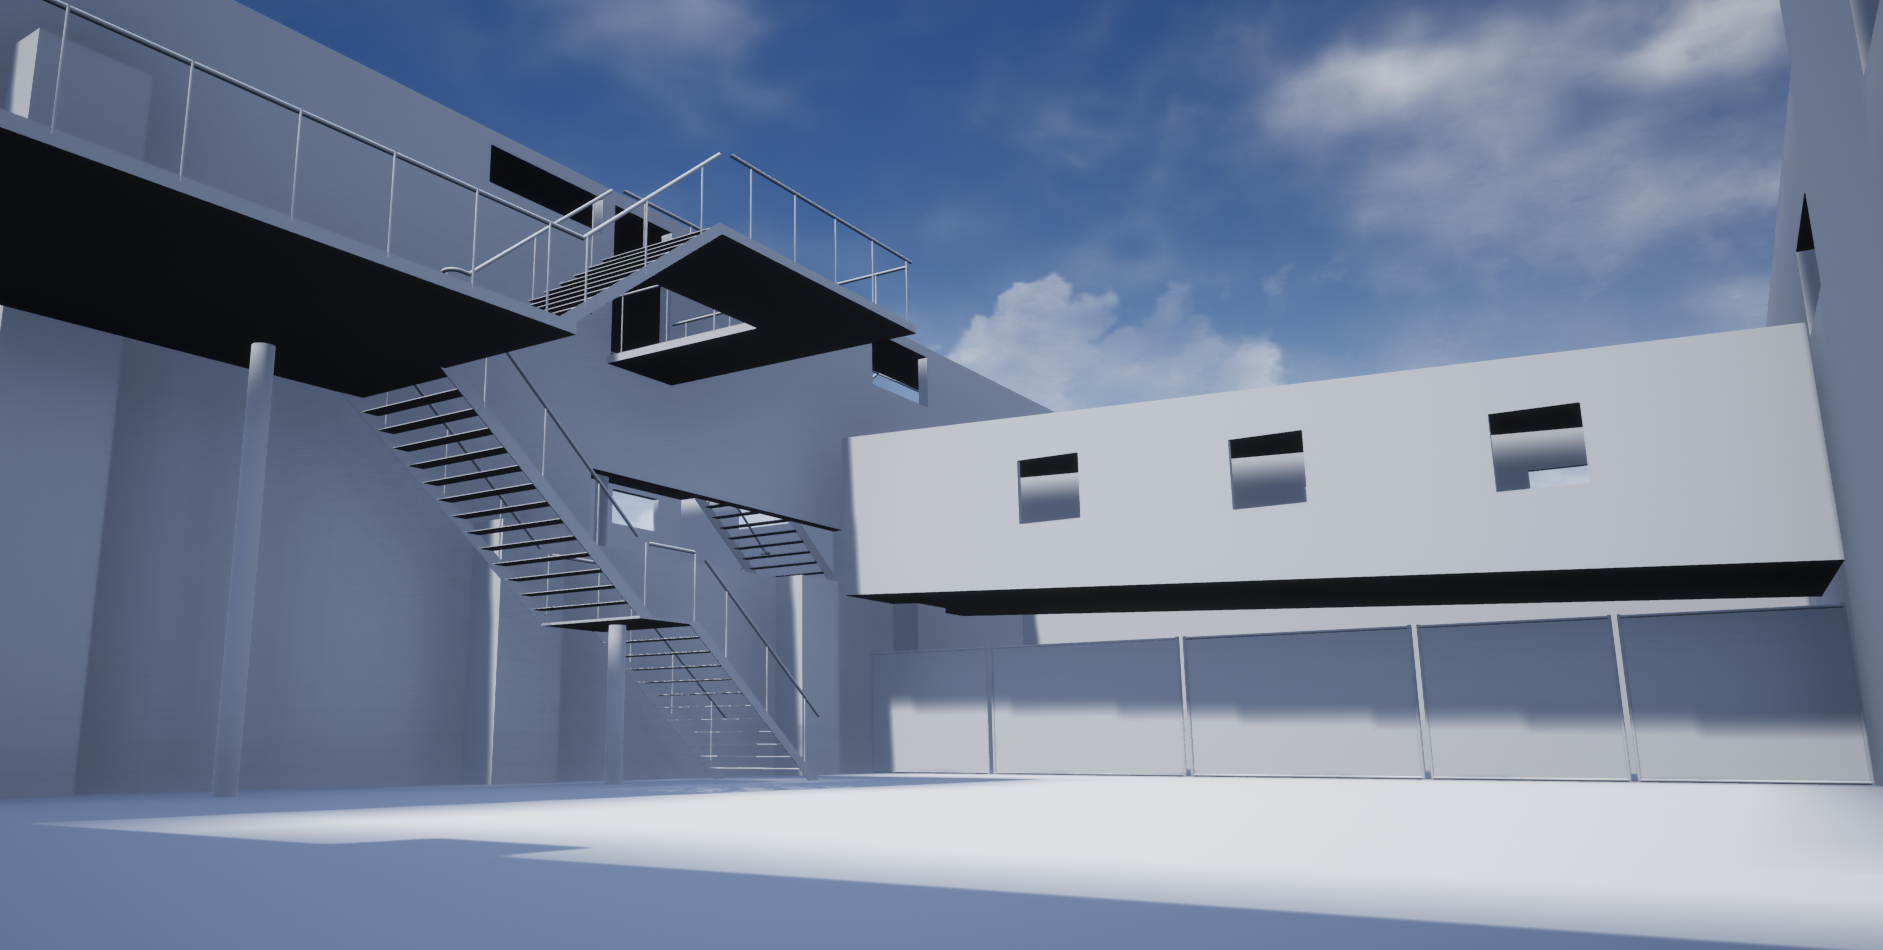
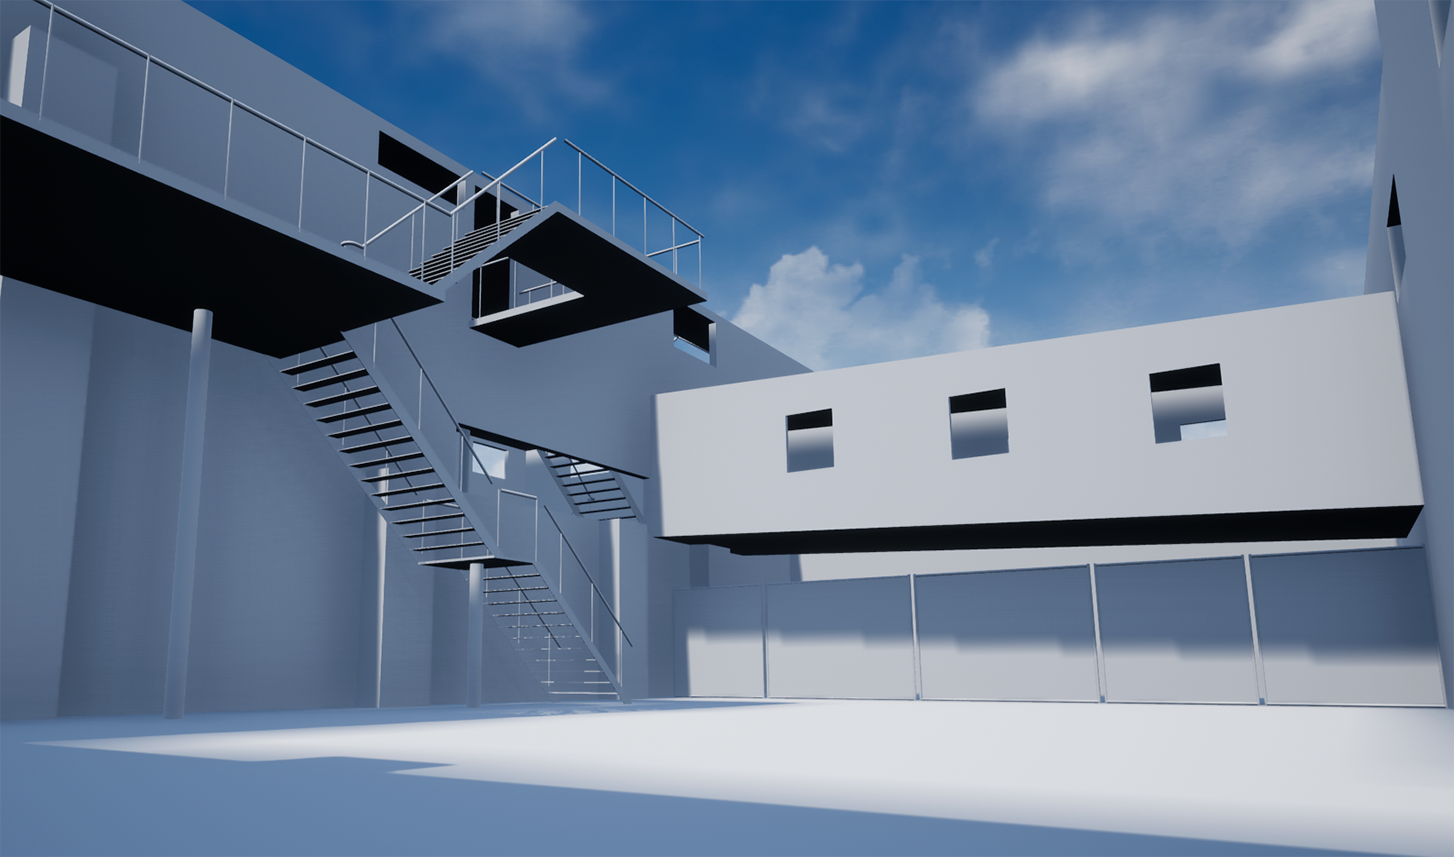
FotosRedimensionadas y cambiadas

diff --git a/PaginaWeb/html/images.html b/PaginaWeb/html/images.html
@@ -5,7 +5,7 @@
       <div class="row no-gutters">
         <div class="col-lg-4 col-sm-6">
           <a class="portfolio-box" href="img/portfolio/fullsize/1.jpg">
-            <img class="img-fluid" src="img/portfolio/thumbnails/1.jpg" alt="">
+            <img class="img-fluid" src="img/CapturasModelos/hotel1.png" alt="">
             <div class="portfolio-box-caption">
               <div class="project-category text-white-50">
                 Edificio Principal
@@ -18,7 +18,7 @@
         </div>
         <div class="col-lg-4 col-sm-6">
           <a class="portfolio-box" href="img/portfolio/fullsize/2.jpg">
-            <img class="img-fluid" src="img/portfolio/thumbnails/2.jpg" alt="">
+            <img class="img-fluid" src="img/CapturasModelos/iglesia.png" alt="">
             <div class="portfolio-box-caption">
               <div class="project-category text-white-50">
                 Misión
@@ -31,7 +31,7 @@
         </div>
         <div class="col-lg-4 col-sm-6">
           <a class="portfolio-box" href="img/portfolio/fullsize/3.jpg">
-            <img class="img-fluid" src="img/portfolio/thumbnails/3.jpg" alt="">
+            <img class="img-fluid" src="img/CapturasModelos/oficinas1.png" alt="">
             <div class="portfolio-box-caption">
               <div class="project-category text-white-50">
                 Obtención de Recursos
@@ -44,7 +44,7 @@
         </div>
         <div class="col-lg-4 col-sm-6">
           <a class="portfolio-box" href="img/portfolio/fullsize/4.jpg">
-            <img class="img-fluid" src="img/portfolio/thumbnails/4.jpg" alt="">
+            <img class="img-fluid" src="img/CapturasModelos/libreria2.png" alt="">
             <div class="portfolio-box-caption">
               <div class="project-category text-white-50">
                 Misión
@@ -57,7 +57,7 @@
         </div>
         <div class="col-lg-4 col-sm-6">
           <a class="portfolio-box" href="img/portfolio/fullsize/5.jpg">
-            <img class="img-fluid" src="img/portfolio/thumbnails/5.jpg" alt="">
+            <img class="img-fluid" src="img/CapturasModelos/parking1.png" alt="">
             <div class="portfolio-box-caption">
               <div class="project-category text-white-50">
                 Enemigos
@@ -70,13 +70,13 @@
         </div>
         <div class="col-lg-4 col-sm-6">
           <a class="portfolio-box" href="img/portfolio/fullsize/6.jpg">
-            <img class="img-fluid" src="img/portfolio/thumbnails/6.jpg" alt="">
+            <img class="img-fluid" src="img/CapturasModelos/almacenes3.png" alt="">
             <div class="portfolio-box-caption p-3">
               <div class="project-category text-white-50">
                 Recursos Especiales
               </div>
               <div class="project-name">
-                FARMACIA
+                GRANDES ALMACENES
               </div>
             </div>
           </a>

diff --git a/PaginaWeb/css/creative.css b/PaginaWeb/css/creative.css
@@ -489,7 +489,7 @@ mark,
 
 .img-fluid {
   max-width: 100%;
-  height: auto;
+  max-height: auto;
 }
 
 .img-thumbnail {
